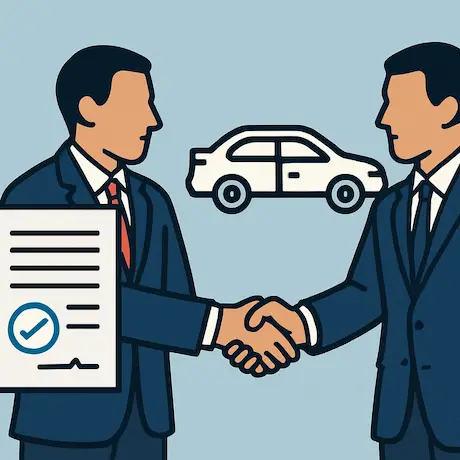
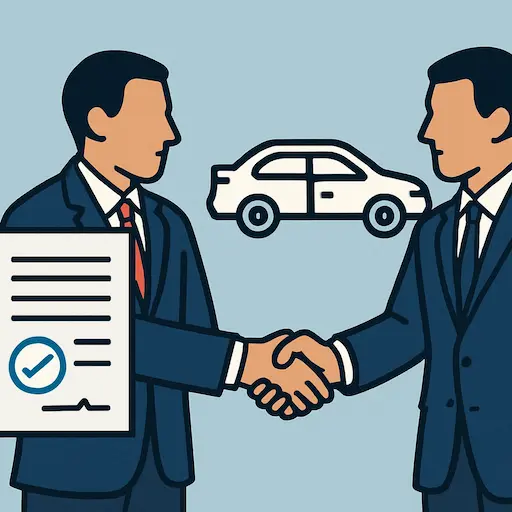
workflow mtd

diff --git a/src/components/Workflow/Workflow.tsx b/src/components/Workflow/Workflow.tsx
@@ -1,49 +1,61 @@
 //workflow aria
 
 import css from "./Workflow.module.css";
-import w1 from "../../assets/w1-t2.webp";
-import w2 from "../../assets/w2-t2.webp";
-import w3 from "../../assets/w3-t2.webp";
-import w4 from "../../assets/w4-t2.webp";
-import w5 from "../../assets/w5-t2.webp";
-import w6 from "../../assets/w6-t2.webp";
+import w1_t1 from "../../assets/w1-t1.webp";
+import w1_t2 from "../../assets/w1-t2.webp";
+import w1_d1 from "../../assets/w1-d1.webp";
+import w2_t1 from "../../assets/w2-t1.webp";
+import w2_t2 from "../../assets/w2-t2.webp";
+import w2_d1 from "../../assets/w2-d1.webp";
+import w3_t1 from "../../assets/w3-t1.webp";
+import w3_t2 from "../../assets/w3-t2.webp";
+import w3_d1 from "../../assets/w3-d1.webp";
+import w4_t1 from "../../assets/w4-t1.webp";
+import w4_t2 from "../../assets/w4-t2.webp";
+import w4_d1 from "../../assets/w4-d1.webp";
+import w5_t1 from "../../assets/w5-t1.webp";
+import w5_t2 from "../../assets/w5-t2.webp";
+import w5_d1 from "../../assets/w5-d1.webp";
+import w6_t1 from "../../assets/w6-t1.webp";
+import w6_t2 from "../../assets/w6-t2.webp";
+import w6_d1 from "../../assets/w6-d1.webp";
 
 const workflowList = [
   {
     title: "Зв’яжіться з нами",
     describe:
       "Зателефонуйте або заповніть форму на нашому сайті, вказавши основну інформацію про Ваш автомобіль",
-    image: w1,
+    image: [w1_t1, w1_t2, w1_d1],
   },
   {
     title: "Попередня оцінка",
     describe:
       "Ви отримуєте попередню пропозицію щодо вартості авто на основі його стану та ринкових цін",
-    image: w3,
+    image: [w3_t1, w3_t2, w3_d1],
   },
   {
     title: "Виїзд експерта",
     describe:
       "Наш спеціаліст безкоштовно приїде до Вас у зручний час для огляду автомобіля та оцінки його стану",
-    image: w2,
+    image: [w2_t1, w2_t2, w2_d1],
   },
   {
     title: "Погодження умов",
     describe:
       "Ми обговорюємо з ами остаточну ціну та деталі угоди, щоб все було прозоро та зрозуміло",
-    image: w5,
+    image: [w5_t1, w5_t2, w5_d1],
   },
   {
     title: "Допомога з документами",
     describe:
       "Ми беремо на себе підготовку всіх необхідних документів для швидкого та законного оформлення",
-    image: w4,
+    image: [w4_t1, w4_t2, w4_d1],
   },
   {
     title: "Отримайте ваші кошти",
     describe:
       "Після підписання документів ви одразу отримуєте гроші зручним для Вас способом – готівкою чи на картку",
-    image: w6,
+    image: [w6_t1, w6_t2, w6_d1],
   },
 ];
 
@@ -60,11 +72,22 @@ export default function Workflow() {
             key={index}
             aria-label={`Крок ${index + 1}: ${workflow.title}`}
           >
-            <img
-              className={css.image}
-              src={workflow.image}
-              alt={`Ілюстрація для кроку: ${workflow.title}`}
-            />
+            <picture className={css.image}>
+              <source
+                media="(max-width: 1000px)"
+                srcSet={`${workflow.image[0]} 1x, ${workflow.image[1]} 2x`}
+              />
+              <source
+                media="(min-width: 1000px)"
+                srcSet={`${workflow.image[2]} 1x, ${workflow.image[0]} 2x`}
+              />
+              <img
+                className={css.car}
+                src={workflow.image[2]}
+                alt={`Ілюстрація для кроку: ${workflow.title}`}
+              />
+            </picture>
+
             <div className={css.text_block}>
               <h3 className={css.title}>{workflow.title}</h3>
               <p className={css.describe}>{workflow.describe}</p>
@@ -75,3 +98,11 @@ export default function Workflow() {
     </section>
   );
 }
+
+// workflow icons
+//  M  /  T  /  D
+// 186 / 230 / 128
+// 372 / 460 / 128
+// =>
+// 256 / 256 / 128
+// 512 / 512 / 256
